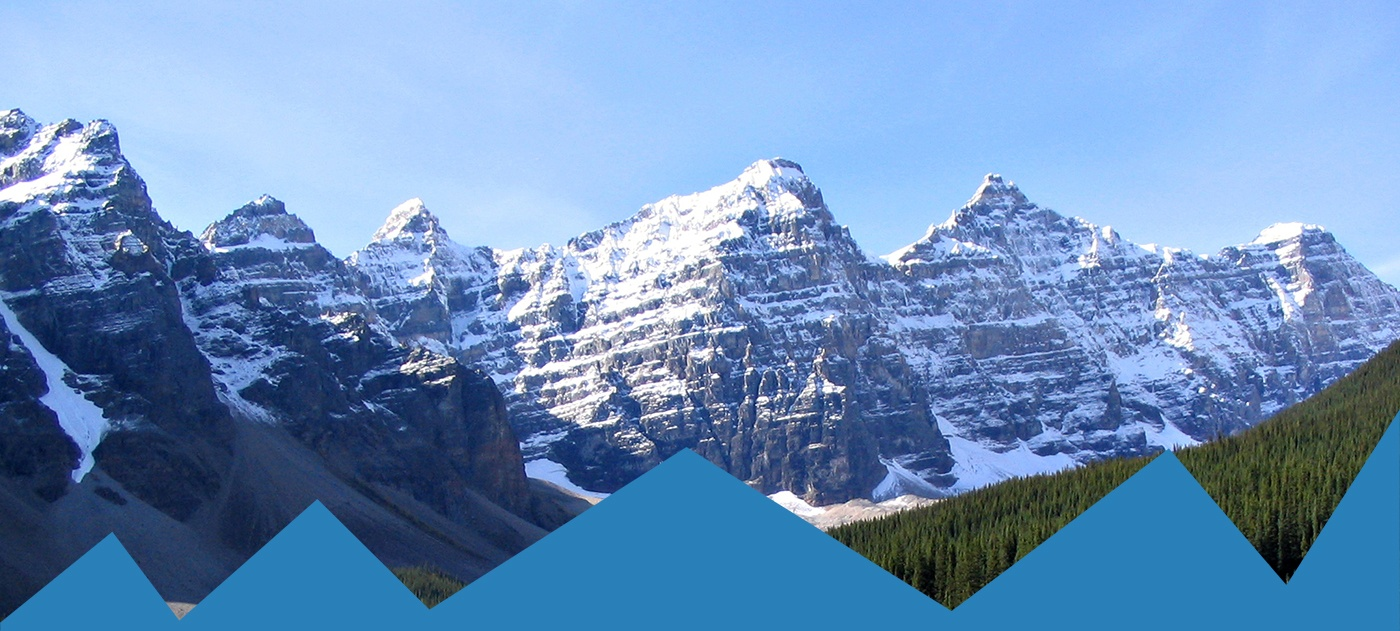
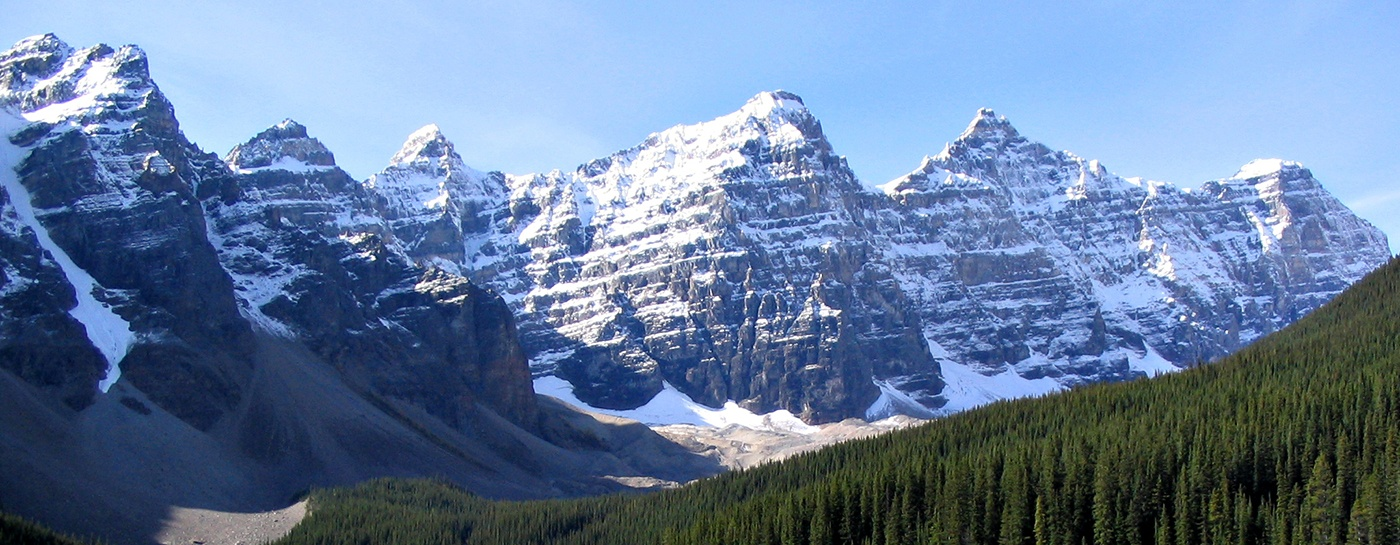
Removed Header Image

diff --git a/index.html b/index.html
@@ -11,7 +11,7 @@
 <body>
 	<div class="container">
 		<div class="page-header">
-			<img src="images/header-bg.jpg"  />
+
 			<h1 class="heading">Denver50</h1>
 			<h2 class="heading">50 Places to Eat and Experience around Denver, Colorado</h2>
 		</div>

diff --git a/scss/styles.scss b/scss/styles.scss
@@ -114,6 +114,7 @@ h2 {
 
 .page-header img {
 	width: 100%;
+
 }
 
 
